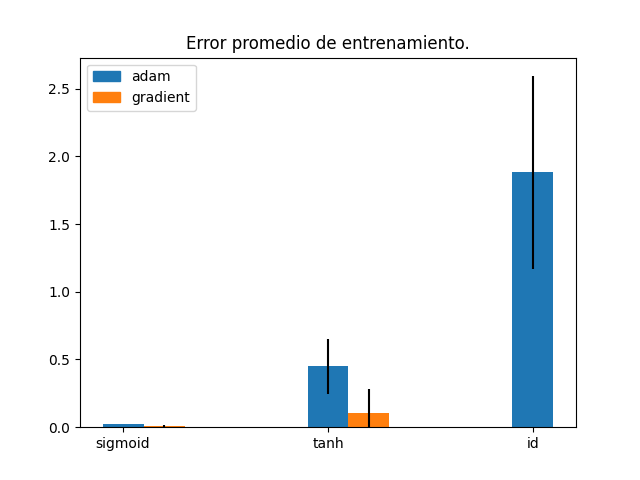
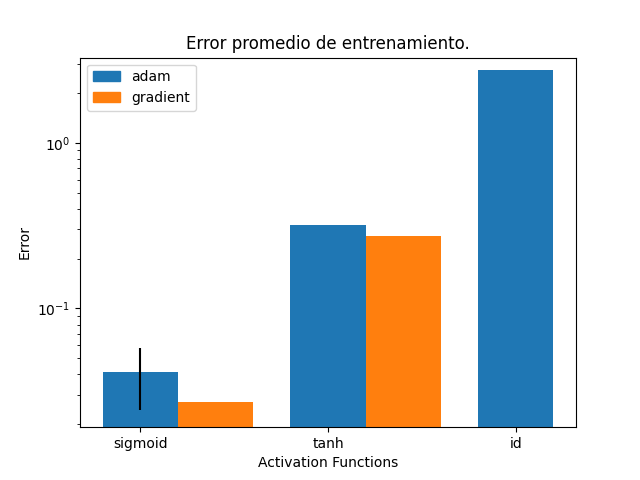
fix: graph scale

diff --git a/tp3/ej2/ej2.py b/tp3/ej2/ej2.py
@@ -61,10 +61,13 @@ def print_result(means, errors, title, file):
     ax.legend(handles=[blue_patch, orange_patch], loc='upper left')
 
     ax.set_title(title)
-    ax.set_ylim(bottom=0, ymin=0, ymax=max(means))
+    ax.set_yscale("log")
+    ax.set_ylim(bottom=0, ymax=max(means)+ 0.5)
     ax.set_xticks(np.arange(len(labels)))
     ax.set_xticklabels(labels)
 
+    plt.ylabel("Error")
+    plt.xlabel("Activation Functions")
     plt.savefig(file)
 
 
@@ -104,11 +107,13 @@ if __name__ == '__main__':
                     generalize_error += np.square(perceptron.get_result(p) - r)
                 g_err_counter.append(((activation, update), generalize_error / len(generalize)))
 
-            generalize_errors.append(np.mean([x[1] for x in g_err_counter]))
-            g_std.append(np.std([x[1] for x in g_err_counter]))
+            resultados_gen = [x[1] for x in g_err_counter]
+            generalize_errors.append(np.mean(resultados_gen))
+            g_std.append(np.std(resultados_gen))
 
-            training_errors.append(np.mean([x[1] for x in t_err_counter]))
-            t_std.append(np.std([x[1] for x in t_err_counter]))
+            resultados_train = [x[1] for x in t_err_counter]
+            training_errors.append(np.mean(resultados_train))
+            t_std.append(np.std(resultados_train))
 
     print_result(generalize_errors, g_std, "Error promedio de generalización.", "ErrorPromedioGeneralizacion.png")
     print_result(training_errors, t_std, "Error promedio de entrenamiento.", "ErrorPromedioEntrenamiento.png")
